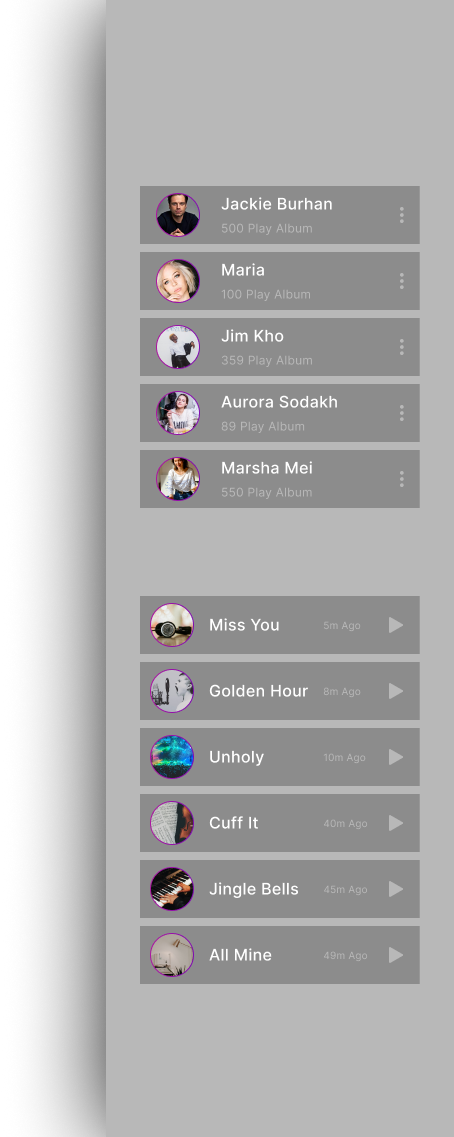
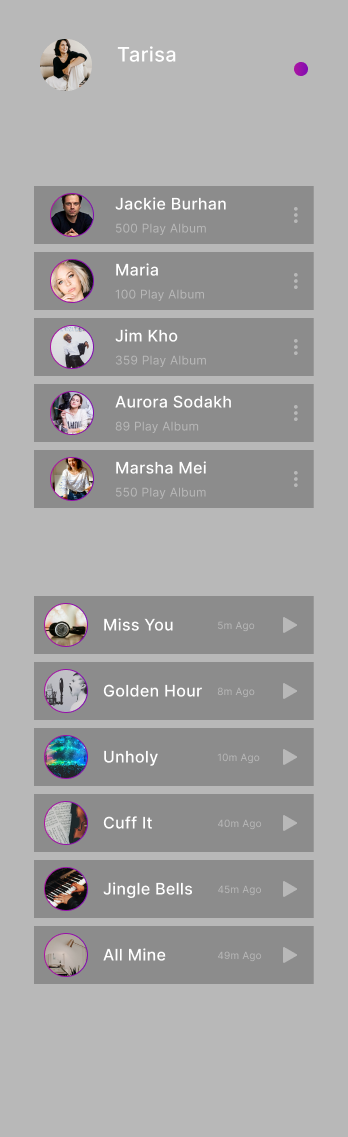
feat: new styes for RightMenu and Player

diff --git a/front/src/components/pages/home/RightMenu.tsx b/front/src/components/pages/home/RightMenu.tsx
@@ -1,18 +1,17 @@
 import React from 'react'
-// import img from './RightMenu.png'
+import img from './RightMenu.png'
 import styled from 'styled-components'
 
 const RightMenu: React.FC = () => {
   return (
     <MainMenuRight>
-      {/* <img src={img} alt='' /> */}
+      <img src={img} alt='' />
     </MainMenuRight>
   )
 }
 
 export default RightMenu
 
-
 const MainMenuRight = styled.div`
-width:454px;
+  max-width: 348px;
 `

diff --git a/front/src/components/pages/home/Player.tsx b/front/src/components/pages/home/Player.tsx
@@ -12,6 +12,4 @@ const Player: React.FC = () => {
 export default Player
 
 const MainPlayer = styled.div`
-  margin: auto;
-  max-width: 1440px;
 `
